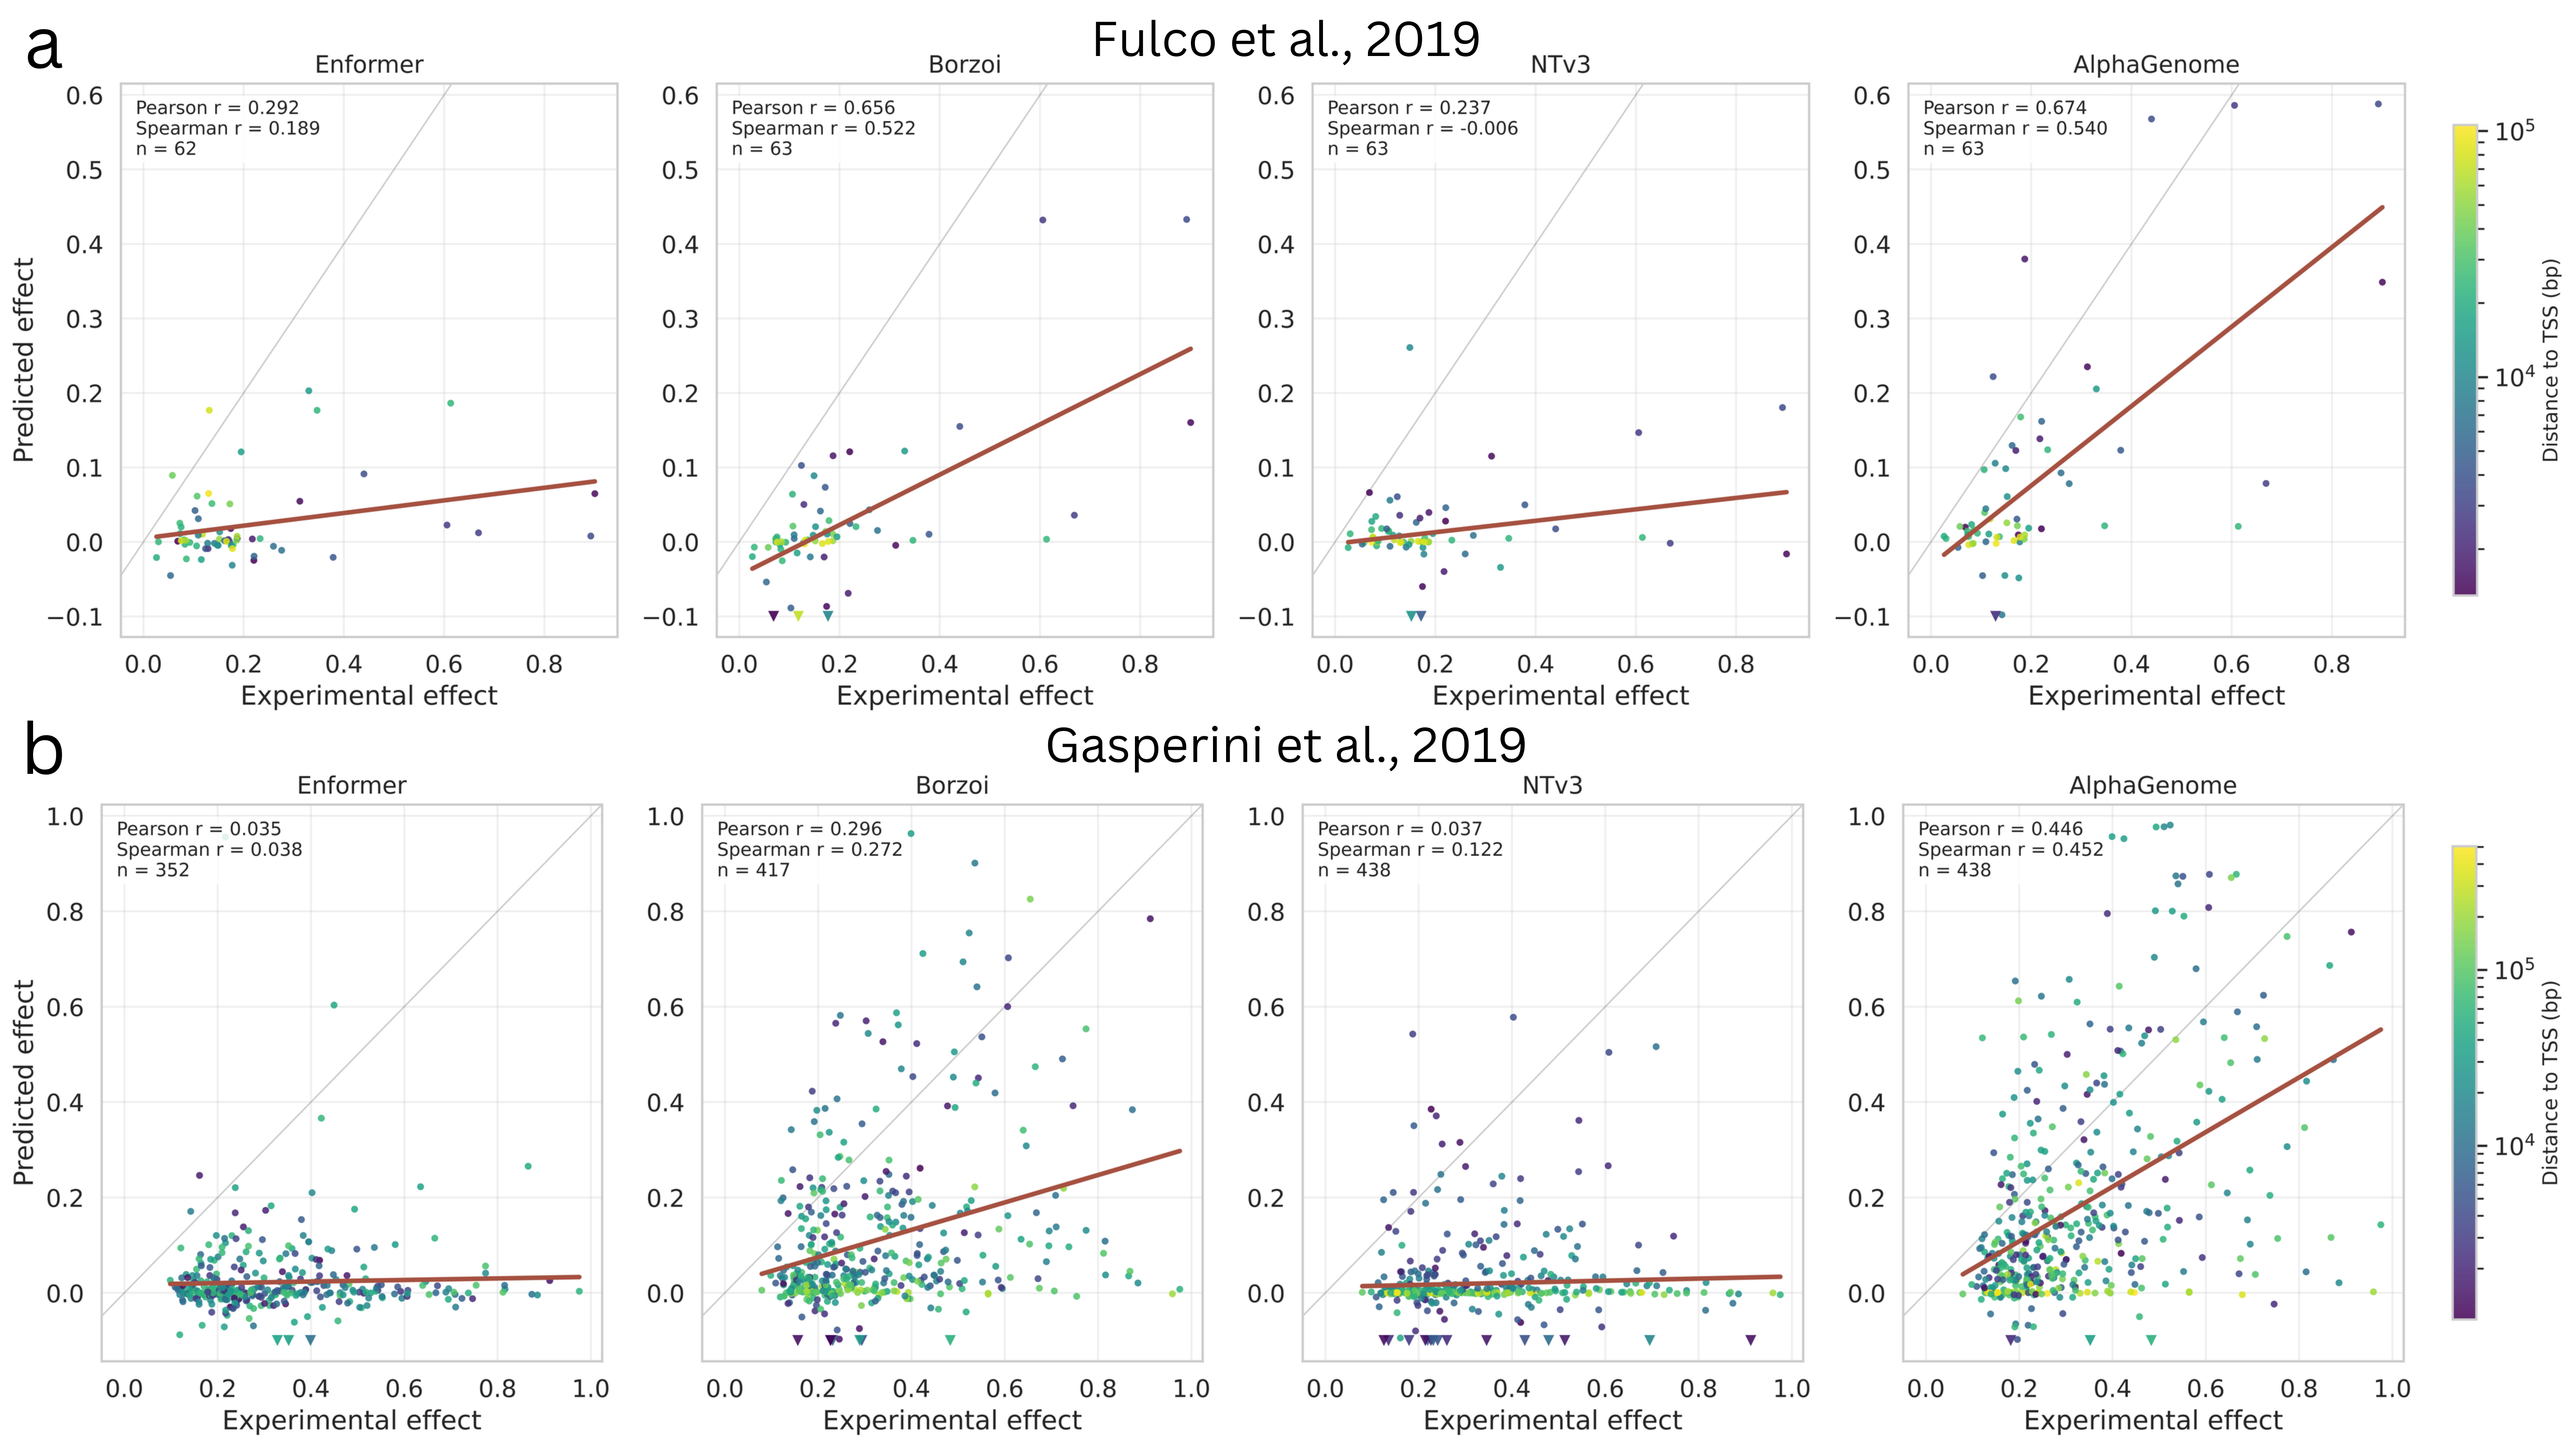
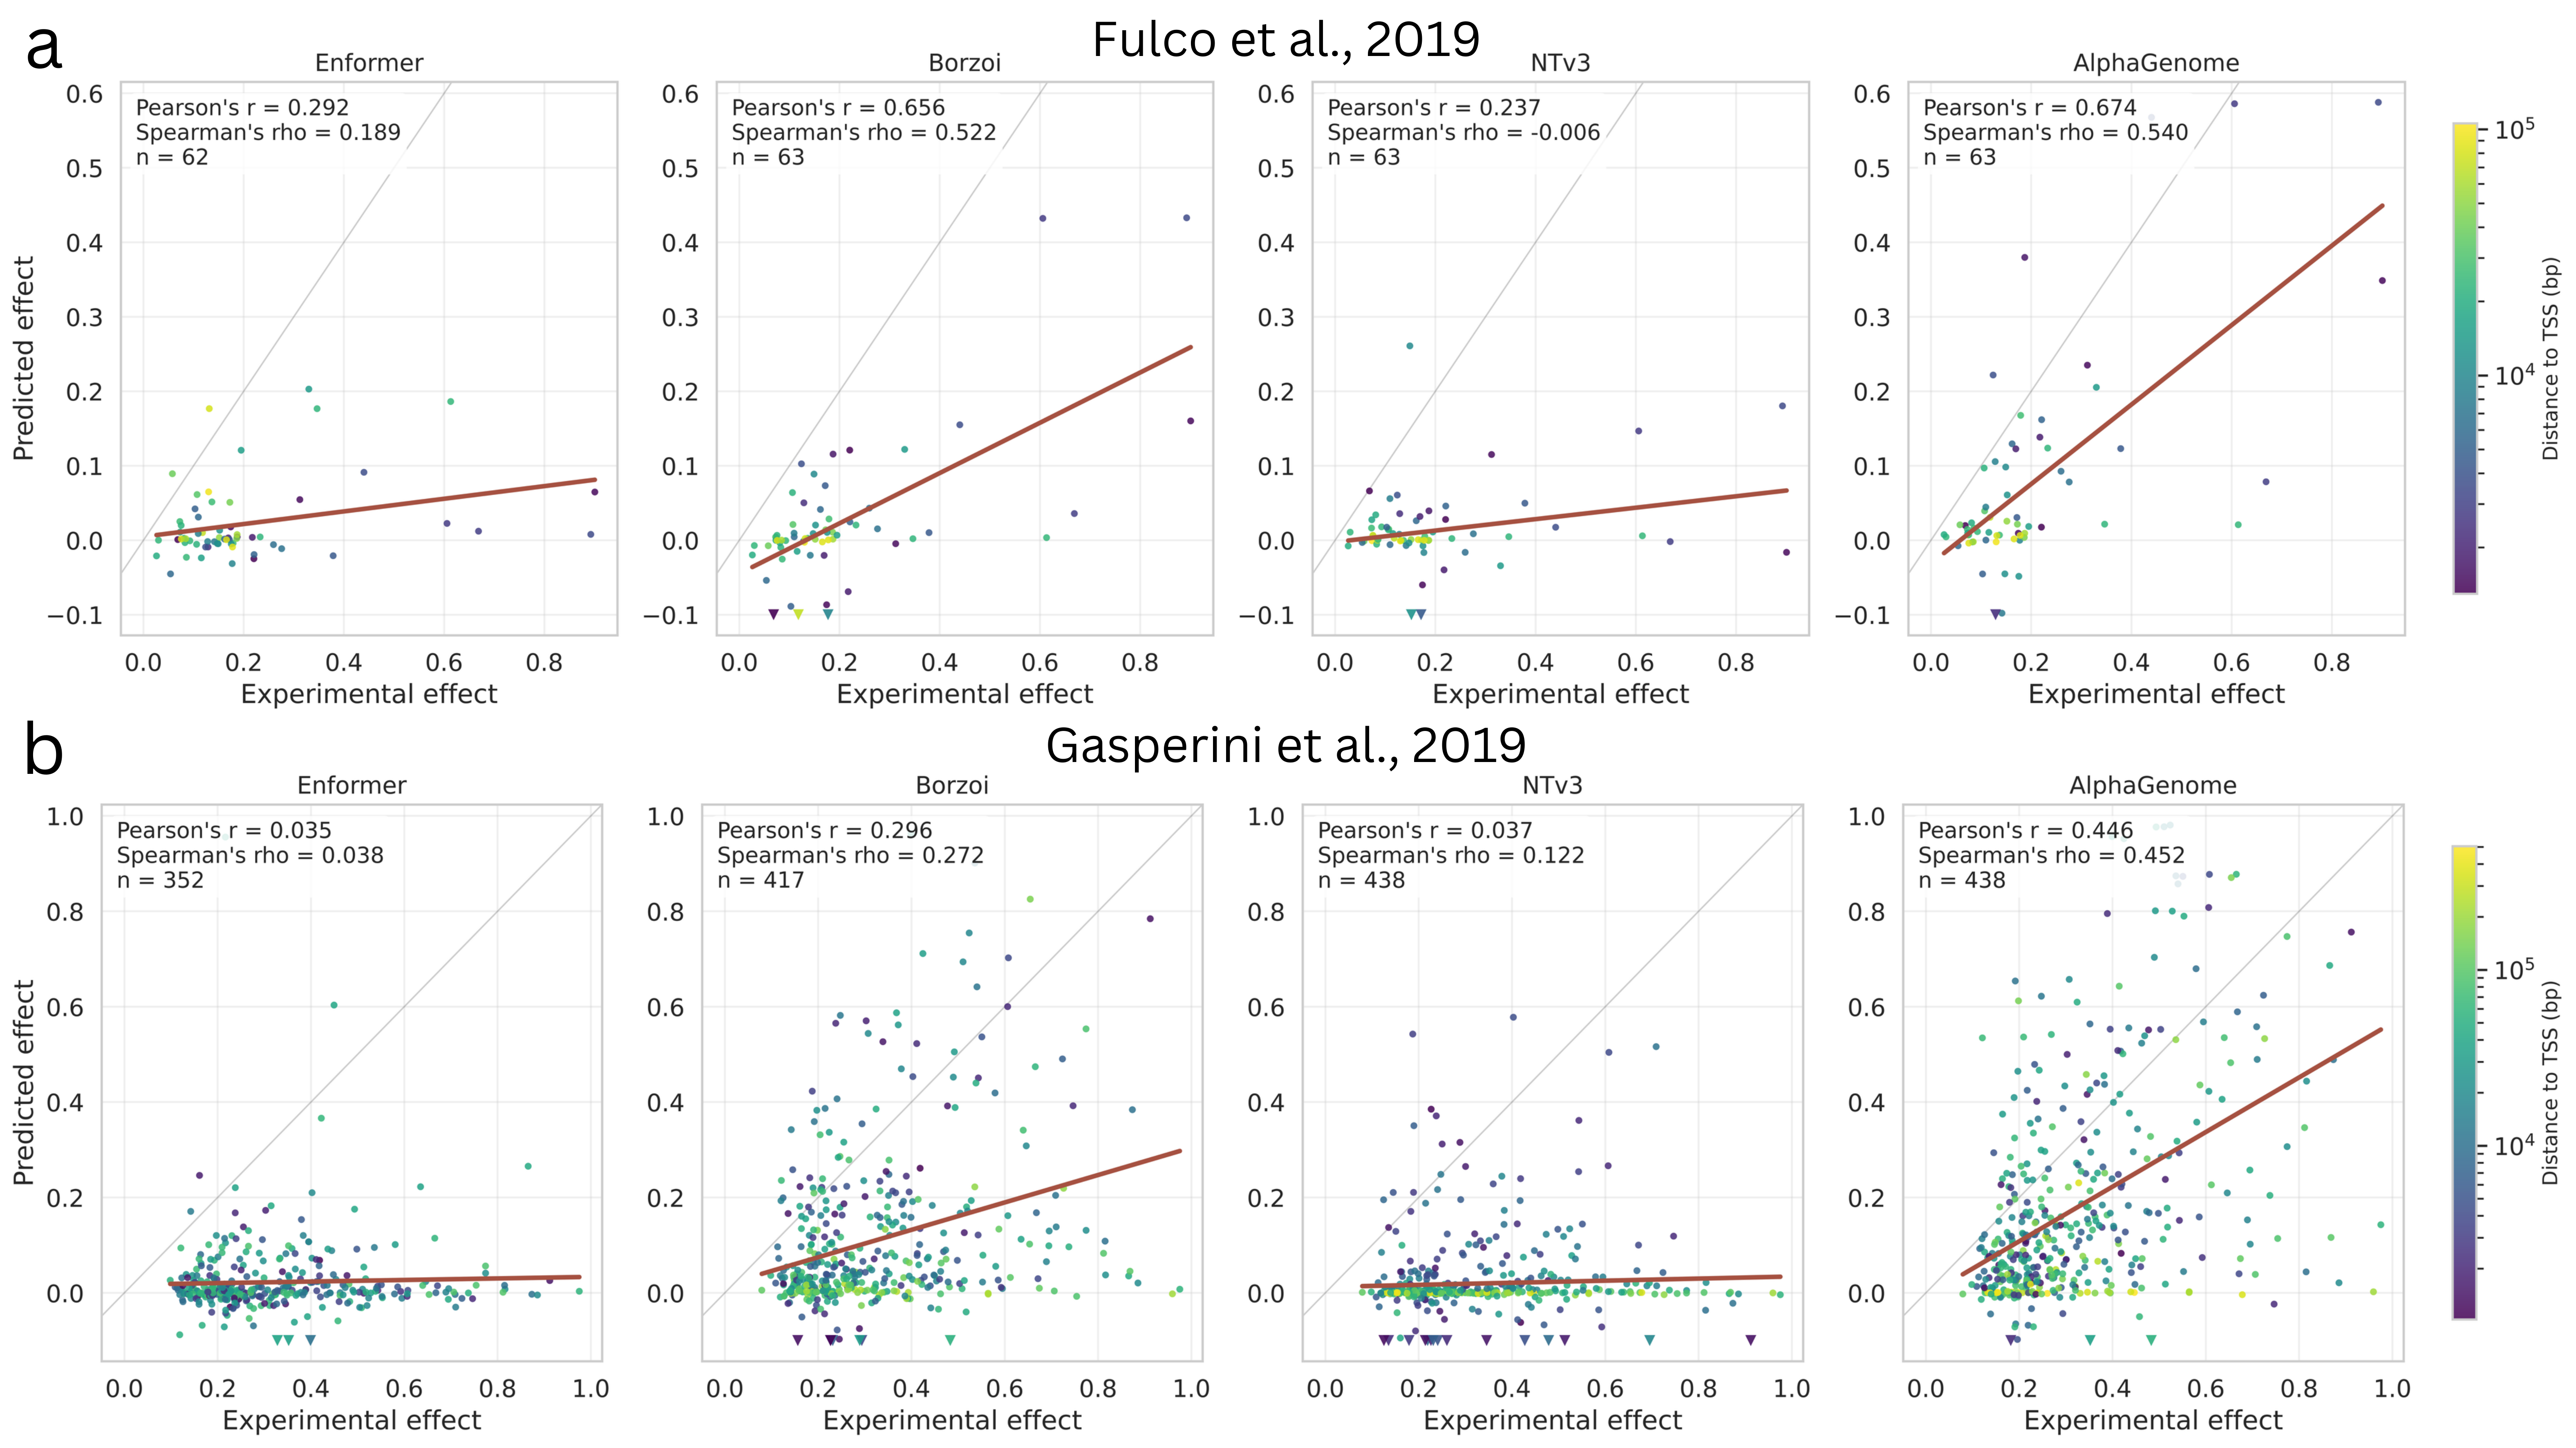
Revise CRISPRi benchmark post: restructure motivation, add TTA section + figure, refine limitations, address reviewer feedback

diff --git a/content/blogs/2026-007/index.md b/content/blogs/2026-007/index.md
@@ -4,13 +4,13 @@ title: "Benchmarking seq2func models on distal enhancer effects with CRISPRi scr
 image: "crispri_fig1.png"
 math: false
 
-authors: ["Alan Murphy","Peter Koo"]
+authors: ["Alan Murphy","Peter K. Koo"]
 
 authors_display:
   - name: "Alan Murphy"
     affiliation: "Cold Spring Harbor Labs (CSHL)"
     orcid: "0000-0002-2487-8753"
-  - name: "Peter Koo"
+  - name: "Peter K. Koo"
     affiliation: "Cold Spring Harbor Labs (CSHL)"
     orcid: "0000-0001-8722-0038"
 
@@ -43,9 +43,9 @@ We benchmark four sequence-to-function genomic deep learning models — [Enforme
 
 Three things stand out:
 
-* **AlphaGenome leads on both screens** (Pearson r = 0.67 on Fulco, 0.45 on Gasperini), with Borzoi a close second on Fulco and a more distant second on Gasperini.
-* **All four models systematically underpredict knockdown magnitude**, and the gap to experimental measurements widens with enhancer-to-TSS distance — distal cis-regulatory element (CRE) effects remain the hardest place to predict.
-* **AlphaGenome's RNA-Seq head (with GENCODE-exon aggregation) beats its CAGE head** on the larger screen — how you read the output matters.
+* **AlphaGenome leads on both screens** (Pearson's r = 0.67 on Fulco et al., 0.45 on Gasperini et al.), with Borzoi a close second on Fulco et al. and a more distant second on Gasperini et al.
+* **All four models systematically underpredict knockdown magnitude**, and the gap to experimental measurements widens with enhancer-to-TSS distance — distal cis-regulatory element (CRE) effects remain difficult to predict.
+* **AlphaGenome's RNA-Seq head (with GENCODE-exon aggregation) beats its CAGE head** on the larger screen — which output track you choose matters.
 
 **Code**: [seq2func_crispri_eval](https://github.com/Al-Murphy/seq2func_crispri_eval)
 {{< /summary >}}
@@ -54,17 +54,20 @@ Three things stand out:
 
 ## Motivation
 
-Sequence-to-function (seq2func) models keep getting bigger, longer-context, and more capable. [AlphaGenome](https://www.nature.com/articles/s41586-025-10014-0) is the current state of the art, succeeding [Enformer](https://www.nature.com/articles/s41592-021-01252-x) (2021) and [Borzoi](https://www.nature.com/articles/s41588-024-02053-6) (2024). DNA language models like [NTv3](https://www.biorxiv.org/content/10.64898/2025.12.22.695963v1) now compete in the same space.
+Sequence-to-function (seq2func) models keep getting bigger, longer-context, and more capable. [AlphaGenome](https://www.nature.com/articles/s41586-025-10014-0) is the current state of the art, succeeding [Enformer](https://www.nature.com/articles/s41592-021-01252-x) (2021) and [Borzoi](https://www.nature.com/articles/s41588-024-02053-6) (2024). DNA language models like [NTv3](https://www.biorxiv.org/content/10.64898/2025.12.22.695963v1) now compete in the same space by post-training on the same functional genomic tracks.
 
-Headline metrics on held-out reference tracks keep going up. But aggregate performance on the reference genome doesn't tell you how the models do under perturbation — predicting expression changes from sequence changes, which is the actual question for variant interpretation, enhancer design, and CRE prioritisation. [Shen, 2025](https://www.biorxiv.org/content/10.1101/2025.08.05.668750v2.full) recently made this point for natural variation: AlphaGenome improves over Enformer on personal gene expression prediction, but still falls well short on predicting how variants between individuals shift expression. The headline there: AlphaGenome moves the needle, but there's still a long way to go on this kind of distributional shift.
+AlphaGenome was launched as a substantial step forward, but its evaluation focused largely on single-nucleotide variant (SNV) effects — not on the known weaknesses for this class of model. Two such problems are especially well-documented, both originally demonstrated on Enformer: predicting expression across **personalised genomes** (e.g. [Sasse et al.](https://www.nature.com/articles/s41588-023-01524-6)), and predicting **distal CRE effects** (how knocking down a far-away enhancer changes its target gene). Both involve sequence perturbations the model wasn't directly trained on, and both are where seq2func models historically struggle. Performance on these tasks is what tells us whether a model's apparent advance translates to the questions biologists actually care about.
 
-We wanted to probe the same kind of distributional shift from a different angle, through a much larger perturbation, disabling a distal enhancer entirely, and asking whether these models pick up on its effect on the target gene. CRISPRi enhancer screens give us an experimental measurement of exactly that.
+The personalised genome question is how well a model predicts gene expression for a specific individual from their own genome. It's hard because the variants that distinguish one individual from the reference are sparse and small in effect, easy to lose against the much stronger reference signal a sequence model is trained to predict. [Shen, 2025](https://www.biorxiv.org/content/10.1101/2025.08.05.668750v2.full) recently revisited it: AlphaGenome improves over Enformer on this task, but still falls well short of useful accuracy. The needle moves, but there's a long way to go.
+
+The distal-CRE question — much bigger perturbations, disabling a whole regulatory element — has received little attention since [Karollus et al., 2023](https://genomebiology.biomedcentral.com/articles/10.1186/s13059-023-02899-9). They defined an _in-silico_ CRISPRi benchmark on [Fulco 2019](https://pubmed.ncbi.nlm.nih.gov/31784727/) and [Gasperini 2019](https://pubmed.ncbi.nlm.nih.gov/30612741/) and ran it on Enformer and Basenji2, finding both substantially undershoot real enhancer effects. Many new seq2func models have been released since, including AlphaGenome, which claimed performance gains from longer input contexts and a broader set of predictive tasks. Yet none have been evaluated on this benchmark.
+
+We aim to address this. We re-run the Karollus benchmark on AlphaGenome, Borzoi, and NTv3 — and on Enformer, to anchor against Karollus's original numbers. The result is a measure of progress on distal-CRE prediction across the last four years of seq2func releases, not just a test of AlphaGenome's generalisation abilities.
 
 > _Side note:_ CRISPRi (CRISPR interference) uses a catalytically dead Cas9 fused to a repressive domain to silence a target locus without cutting DNA. When the target is a distal enhancer, you can read out which genes go down in expression — giving you a measured enhancer → gene effect size.
 
-> _Side note:_ "seq2func" = sequence-to-function. A model that takes raw DNA as input and predicts functional genomic signals (RNA-seq, CAGE, ATAC, ChIP, etc.) as output. Enformer, Borzoi, NTv3, and AlphaGenome are all seq2func models.
+> _Side note:_ "seq2func" = sequence-to-function. A model that takes raw DNA as input and predicts functional genomic signals (RNA-seq, CAGE, ATAC, ChIP, etc.) as output. Enformer, Borzoi, and AlphaGenome were all trained end-to-end as seq2func models. NTv3 is a hybrid: first pretrained as a genomic language model (gLM) via masked language modeling — predicting hidden bases from their surrounding sequence across many species' genomes — then post-trained on functional assays to produce seq2func outputs.
 
-This post extends the in-silico CRISPRi benchmark from [Karollus et al., 2023](https://genomebiology.biomedcentral.com/articles/10.1186/s13059-023-02899-9), originally for Enformer and Basenji2, to AlphaGenome, Borzoi, and NTv3.
 
 ---
 
@@ -79,13 +82,13 @@ For each pair, the procedure is:
 
 1. Build a sequence window of the model's native context (196 kb for Enformer, 524 kb for Borzoi, 1 Mb for NTv3 and AlphaGenome), centred on the gene's TSS.
 2. Score the wild-type window.
-3. Dinucleotide-shuffle a 2 kb slice covering the enhancer. Repeat N = 50 times, average effect.
+3. Dinucleotide-shuffle a 2 kb slice covering the enhancer. Repeat N = 50 times, average the model's prediction.
 4. Aggregate the model output over K562 RNA-Seq tracks in a TSS-centred 640 bp window. For AlphaGenome we additionally use the mean signal across GENCODE exons of the target gene (their paper's preferred RNA-Seq score).
 5. Score `pred_delta = (WT − mean(shuffle)) / WT` per pair and correlate with the measured fractional knockdown.
 
-> _Side note_: Why dinucleotide shuffle and not uniform random bases or N-replacement? N-replacement has not been seen by the model during training, so it could lead to some very strange predictions. Drawing random bases changes the local G+C content, biasing the model on composition rather than motif loss. Even a plain base shuffle — which does preserve G+C — destroys dinucleotide frequencies like CpG counts, themselves a learned regulatory signal. Dinucleotide shuffling (Altschul–Erickson) destroys motif content while keeping both single-base and dinucleotide composition intact. The standard for in-silico CRISPRi.
+> _Side note_: This is a marginalisation procedure — by averaging predictions across many randomised backgrounds in which the enhancer's motif content is destroyed, we isolate the enhancer's contribution from the surrounding sequence context (the same idea underlies Global Importance Analysis (GIA); [Koo et al., 2021](https://pmc.ncbi.nlm.nih.gov/articles/PMC8118286/)). The background choice matters: N-replacement is out-of-distribution for the model and can produce strange predictions; drawing random bases changes local G+C content, biasing on composition rather than motif loss; even a plain base shuffle destroys dinucleotide frequencies like CpG counts, themselves a learned regulatory signal. Dinucleotide shuffling (Altschul–Erickson) destroys motif content while keeping both single-base and dinucleotide composition intact — the standard background for in-silico CRISPRi.
 
-This protocol is a direct extension of [Karollus 2023](https://genomebiology.biomedcentral.com/articles/10.1186/s13059-[phone redacted]) — most of it is bit-for-bit faithful to theirs. We reuse their Fulco evaluation tables (`ziga_additional_columns.tsv` + `enhancer_knockdown_effects.tsv` from their [Zenodo release](https://zenodo.org/records/[phone redacted])) with the same merge keys and validated-pair filtering, their TSS / enhancer / strand conventions, the same Enformer DeepMind checkpoint (loaded via the [PyTorch port](https://github.com/lucidrains/enformer-pytorch) rather than TF Hub — same weights, different wrapper), and their K562 CAGE readout, central-bin aggregation, and Pearson/Spearman correlation framework. For Gasperini we apply the same protocol to the Cell 2019 high-confidence pairs (after hg19 → hg38 liftover). The model-specific adjustments — per-architecture aggregation conventions like 5×128 bp bins for Enformer, 20×32 bp for Borzoi, exon-mean for AlphaGenome RNA-Seq — are architecture-driven; the evaluation harness around them is the Karollus harness. Four deliberate departures from Karollus are flagged in [Limitations](#limitations).
+This protocol is a direct extension of [Karollus 2023](https://genomebiology.biomedcentral.com/articles/10.1186/s13059-[phone redacted]) — most of it is bit-for-bit faithful to theirs. We reuse their Fulco et al. evaluation tables (`ziga_additional_columns.tsv` + `enhancer_knockdown_effects.tsv` from their [Zenodo release](https://zenodo.org/records/[phone redacted])) with the same merge keys and validated-pair filtering, their TSS / enhancer / strand conventions, the same Enformer DeepMind checkpoint (loaded via the [PyTorch port](https://github.com/lucidrains/enformer-pytorch) rather than TF Hub — same weights, different wrapper), and their K562 CAGE readout, central-bin aggregation, and Pearson/Spearman correlation framework. For Gasperini we apply the same protocol to the Cell 2019 high-confidence pairs (after hg19 → hg38 liftover). The model-specific adjustments — per-architecture aggregation conventions like 5×128 bp bins for Enformer, 20×32 bp for Borzoi, exon-mean for AlphaGenome RNA-Seq — are architecture-driven; the evaluation harness around them is the Karollus harness. Four deliberate departures from Karollus are flagged in [Limitations](#limitations).
 
 ---
 
@@ -93,11 +96,11 @@ This protocol is a direct extension of [Karollus 2023](https://genomebiology.bio
 
 **AlphaGenome leads on both screens.** Figure 1 shows predicted vs. measured fractional knockdown for all four models on each screen, with points coloured by enhancer-to-TSS distance.
 
-![Figure 1](crispri_fig1.png "width=900 Figure 1: Predicted vs. measured fractional knockdown for the four models on (a) Fulco 2019 and (b) Gasperini 2019. Points coloured by enhancer-to-TSS distance. AlphaGenome achieves the highest Pearson and Spearman correlations on both screens; Enformer and NTv3 effectively fail on Gasperini. The dashed x = y line marks perfect prediction (predicted = observed); points falling below it indicate the model underestimates the experimental knockdown.")
+![Figure 1](crispri_fig1.png "width=900 Figure 1: Predicted vs. measured fractional knockdown for the four models on (a) Fulco et al., 2019 and (b) Gasperini et al., 2019. Points coloured by enhancer-to-TSS distance. AlphaGenome achieves the highest Pearson and Spearman correlations on both screens; Enformer and NTv3 effectively fail on Gasperini. The dashed x = y line marks perfect prediction (predicted = observed); points falling below it indicate the model underestimates the experimental knockdown.")
 
 The headline numbers:
 
-| Model       | Fulco (Pearson / Spearman) | Gasperini (Pearson / Spearman) |
+| Model       | Fulco et al. (Pearson's r / Spearman's rho) | Gasperini et al. (Pearson's r / Spearman's rho) |
 |-------------|---------------------------:|-------------------------------:|
 | Enformer    | 0.29 / 0.19                | 0.04 / 0.04                    |
 | Borzoi      | 0.66 / 0.52                | 0.30 / 0.27                    |
@@ -106,9 +109,10 @@ The headline numbers:
 
 A few takeaways:
 
-* **AlphaGenome outperforms all other mdoels** on both screens. The margin over Borzoi is small on Fulco but substantial on Gasperini.
-* **Enformer and NTv3 fall apart on Gasperini.** Enformer's shorter 196 kb context excludes ~20% of Gasperini pairs, but even on the closer pairs, it manages near-zero correlation. NTv3 has a 1 Mb context, the same as AlphaGenome, and still performs comparably poorly, so context length isn't the explanation.
-* **The Gasperini ceiling is low across the board.** Even AlphaGenome leaves the majority of variance unexplained. Some of this is biological noise: Gasperini's pooled design puts multiple sgRNAs per cell, so any single enhancer's effect is measured in an already-perturbed cellular context, with trans effects from the other knockdowns adding noise to the readout. Fulco's CRISPRi-FlowFISH targets one enhancer at a time and is the cleaner ground truth — which may explain part of the per-screen performance gap. Either way, the headline framing is that AlphaGenome improves CRISPRi prediction but a large gap remains, especially for distal cis-regulatory elements (CREs).
+* **AlphaGenome outperforms all other models** on both screens. The margin over Borzoi is small, especially on Fulco et al.
+* **Enformer and NTv3 fall apart on Gasperini et al.** Enformer's shorter 196 kb context excludes ~20% of Gasperini et al. pairs, but even on the closer pairs, it manages near-zero correlation. NTv3 has a 1 Mb context, the same as AlphaGenome, and still performs comparably poorly, so context length isn't the explanation.
+* **On the same set of pairs, AlphaGenome still leads.** Of Gasperini et al.'s pairs, 21 fall within AlphaGenome's 1 Mb context but outside Borzoi's 524 kb — so they contribute to AG's correlation but not Borzoi's (Note, all of the tested Fulco et al. pair's are in Borzoi's context). To make the comparison apples-to-apples, we restrict AlphaGenome to only the pairs Borzoi can also score: Pearson's r 0.45 → 0.44, Spearman's ρ 0.45 → 0.45 — giving essentially the same result.
+* **The Gasperini et al. ceiling is low across the board.** Even AlphaGenome leaves substantial variance unexplained. Some of this is biological noise: Gasperini et al.'s pooled design puts multiple sgRNAs per cell, so any single enhancer's effect is measured in an already-perturbed cellular context, with trans effects from the other knockdowns adding noise to the readout. Fulco et al.'s CRISPRi-FlowFISH targets one enhancer at a time and is the cleaner ground truth — which may explain part of the per-screen performance gap. Either way, the headline framing is that AlphaGenome improves CRISPRi prediction but a large gap remains, especially for distal cis-regulatory elements (CREs).
 
 ### Predictions shrink, knockdowns don't
 
@@ -121,17 +125,25 @@ Two patterns hold across all four models:
 * **Predictions are systematically smaller in magnitude than observed knockdowns.** Even where the rank ordering is right (good Spearman), the predicted effect sizes are compressed.
 * **The gap grows with distance.** Models capture some of the distance-decay biology, but the slope is shallower than the data demands — most obviously for Enformer and NTv3, less so for AlphaGenome.
 
-### How you read the output matters
+A short aside: AlphaGenome's RNA-Seq head, aggregated as the mean signal across the target gene's GENCODE exons (their paper's preferred approach), beats AlphaGenome's CAGE head on Gasperini et al. (Pearson's r 0.45 vs. 0.39). On Fulco et al. the difference is small (0.67 vs. 0.66). So if you're benchmarking a new model on these screens, your output-aggregation choice should be considered carefully!
 
-A short aside: AlphaGenome's RNA-Seq head, aggregated as the mean signal across the target gene's GENCODE exons (their paper's preferred approach), beats AlphaGenome's CAGE head on Gasperini (Pearson 0.45 vs. 0.39). On Fulco the difference is small (0.67 vs. 0.66). So if you're benchmarking a new model on these screens, your output-aggregation choice should be considered carefully!
-
-![Figure 3](crispri_suppfig2.png "width=900 Figure 3: Predicted vs. measured fractional knockdown for Enformer and AlphaGenome CAGE track and RNA-Seq track on (a) Fulco 2019 and (b) Gasperini 2019. Points coloured by enhancer-to-TSS distance. AlphaGenome's RNA-Seq head with GENCODE-exon aggregation beats its CAGE head on Gasperini and is comparable on Fulco. The dashed x = y line marks perfect prediction (predicted = observed); points falling below it indicate the model underestimates the experimental knockdown.")
+![Figure 3](crispri_suppfig2.png "width=900 Figure 3: Predicted vs. measured fractional knockdown for Enformer and AlphaGenome CAGE track and RNA-Seq track on (a) Fulco et al., 2019 and (b) Gasperini et al., 2019. Points coloured by enhancer-to-TSS distance. AlphaGenome's RNA-Seq head with GENCODE-exon aggregation beats its CAGE head on Gasperini et al. and is comparable on Fulco et al. The dashed x = y line marks perfect prediction (predicted = observed); points falling below it indicate the model underestimates the experimental knockdown.")
 
 ### Scoring it two ways
 
-A second aside: we computed the predicted effect two ways. Figure 1 used the linear `pred_delta = (WT − mean(shuffle)) / WT`. We also computed log<sub>2</sub>(WT / mean(shuffle)) against −log<sub>2</sub>(1 − y_delta) — a log fold-change scaling that de-emphasises a few high-end outliers. Figure 4 shows the log<sub>2</sub> version. Spearman is identical between the two scorings (rank-invariant); Pearson shifts a few hundredths but the model ranking is the same.
+A second aside: we computed the predicted effect two ways. Figure 1 used the linear `pred_delta = (WT − mean(shuffle)) / WT`. We also computed log<sub>2</sub>(WT / mean(shuffle)) against −log<sub>2</sub>(1 − y_delta) — a log fold-change scaling that de-emphasises a few high-end outliers. Figure 4 shows the log<sub>2</sub> version.  Spearman is identical between the two scorings (rank-invariant); Pearson can shift noticeably, especially on Gasperini, and AlphaGenome and Borzoi narrowly swap order on Fulco — though the broad picture (AlphaGenome and Borzoi well above NTv3) is robust.
 
-![Figure 4](crispri_suppfig1.png "width=900 Figure 4: Predicted vs. measured knockdown on the log2 alignment scale (log2(WT / mean(shuffle)) vs. −log2(1 − y_delta)) for Borzoi, NTv3, and AlphaGenome on (a) Fulco 2019 and (b) Gasperini 2019. Enformer omitted. Points coloured by enhancer-to-TSS distance. Model ranking matches Figure 1; Pearson shifts a few hundredths, Spearman is identical. The dashed x = y line marks perfect prediction (predicted = observed); points falling below it indicate the model underestimates the experimental knockdown.")
+![Figure 4](crispri_suppfig1.png "width=900 Figure 4: Predicted vs. measured knockdown on the log2 alignment scale (log2(WT / mean(shuffle)) vs. −log2(1 − y_delta)) for Borzoi, NTv3, and AlphaGenome on (a) Fulco et al., 2019 and (b) Gasperini et al., 2019. Enformer omitted. Points coloured by enhancer-to-TSS distance. Model ranking matches Figure 1; Pearson can shift on Gasperini, and AlphaGenome and Borzoi swap order on Fulco. Spearman's ρ is identical between the two scorings. The dashed x = y line marks perfect prediction (predicted = observed); points falling below it indicate the model underestimates the experimental knockdown.")
+
+### Test-time augmentation: stabilising AlphaGenome
+
+Karollus et al.'s original benchmark applies **test-time augmentations (TTA)** — for each sequence, run the model on 3 small offsets (−43, 0, +43 bp) crossed with both orientations (forward + reverse-complement), then average the 6 predictions. The 43 bp shift isn't arbitrary: Enformer's output is binned at 128 bp, and 128 / 3 ≈ 43, so the three offsets sample the TSS at roughly even thirds within its bin, averaging out where exactly the landmark falls. Genomic seq2func models have small but real positional sensitivity — predictions wobble across shifts — and TTA reliably damps this. Past work has shown the same effect in adjacent settings ([Toneyan et al., 2022](https://www.nature.com/articles/s42256-022-00570-9)).
+
+> _Side note:_ Test-time augmentation (TTA) means running the model on slightly perturbed versions of the same input and averaging the outputs, so the final prediction is less dependent on incidental properties like exact bin alignment or input orientation.
+
+The headline benchmark (Figures 1–4) doesn't use TTA, so all four models are compared on equal footing. To see what stabilising AlphaGenome's predictions buys on this task, we ran a separate analysis applying the Karollus et al.'s 6-pass recipe to AlphaGenome alone. Figure 5 shows the result: TTA improves AlphaGenome's headline correlations on both screens, lifting Pearson's r on Fulco from 0.67 to 0.69 and Spearman on Gasperini from 0.45 to 0.47.
+
+![Figure 5](crispri_suppfig3.png "width=900 Figure 5: AlphaGenome predicted vs. measured fractional knockdown on (a) Fulco et al., 2019 and (b) Gasperini et al., 2019, without test time augmentations (TTA) (middle) versus with 6-pass TTA (3 shifts × 2 orientations, averaged; right). Points coloured by enhancer-to-TSS distance. TTA modestly improves AlphaGenome's correlations on both screens — most visibly Fulco Pearson (0.67 → 0.69) and Gasperini Spearman (0.45 → 0.47); the other metrics are essentially unchanged. Enformer without TTA included for context. The dashed x = y line marks perfect prediction (predicted = observed); points falling below it indicate the model underestimates the experimental knockdown.")
 
 ---
 
@@ -139,14 +151,14 @@ A second aside: we computed the predicted effect two ways. Figure 1 used the lin
 
 A few things to flag about our analysis.
 
-**Differences from Karollus 2023.** We cross-checked our Enformer reimplementation against Karollus's original code line-by-line with an LLM ([Claude Opus 4.7](https://www.anthropic.com/)). Our Enformer numbers don't exactly match their published ones despite following the same trends. Four deliberate departures from their approach may explain some of this gap:
+**Differences from Karollus 2023.** We cross-checked our Enformer reimplementation against Karollus's original code line-by-line with an LLM ([Claude Opus 4.7](https://www.anthropic.com/)). Our Enformer numbers don't exactly match their published ones but the qualitative pattern is the same — Enformer underpredicts distal enhancer effects. Four deliberate departures from their approach may explain some of this gap:
 
 * **Window construction.** Karollus reads precomputed `sequence_start`/`sequence_end` from a fixed table, designed so both TSS and enhancer sit inside Enformer's central crop. We build the window on-the-fly as strict TSS-centred so that all models were compared equally.
-* **No test time augmentations - orientation/offset averaging.** Karollus uses test time augmentations by averages 2 orientations × 3 offsets per sequence (612 forward passes per pair). We run 1 × 1 (51 forward passes with the orientation mnatching the gene of interest). We know shifting and reverse complementing will likely marginally improve performance but for benchmarking, we wanted to test every model on a single pass on the correct orientation of the gene of interest.
-* **No N-replacement control.** Karollus also runs an all-N enhancer replacement (replacing every base with the "N" wildcard) as a stronger knockout than shuffling. We deliberately don't: a 2 kb stretch of pure N is out-of-distribution for these models, they may see scattered Ns in gap-adjacent or repeat-masked positions during training, but never contiguous blocks of this size. Predictions there reflect how the model handles unfamiliar input, not how it responds to motif loss, which is the actual question. The dinucleotide shuffle keeps the model in-distribution and isolates the motif-loss signal cleanly.
-* **Linear vs. log<sub>2</sub> observed effect.** Karollus uses log<sub>2</sub>(1 + fraction_change); we report the linear fractional change and the log<sub>2</sub> observed effect. Spearman is identical; Pearson differs by a small log-vs-linear distortion.
+* **TTA only for AlphaGenome.** Karollus et al. applies TTA (6 forward passes per sequence) uniformly across all evaluated models. Our headline four-model comparison (Figures 1–4) runs each model once per sequence (51 forward passes per pair, counting the 50 shuffles), keeping all models on equal footing. We separately apply Karollus et al.'s TTA recipe to AlphaGenome (Figure 5) to characterise the stability gain, but we don't apply it to Enformer, Borzoi, or NTv3.
+* **No N-replacement control.** Karollus also runs an all-N enhancer replacement (replacing every base with the "N" wildcard) as a stronger knockout than shuffling. We deliberately don't: while reference genomes do contain N regions (gaps, centromeres, hard-masked repeats), these are typically excluded or under-weighted in training pipelines for these models, so a 2 kb block of N embedded in an otherwise-normal genic context is anomalous input. Predictions there reflect how the model handles unfamiliar input, not how it responds to motif loss, which is the actual question. The dinucleotide shuffle keeps the model in-distribution and isolates the motif-loss signal cleanly.
+* **Linear vs. log<sub>2</sub> observed effect.** Karollus uses log<sub>2</sub>(1 + fraction_change); we report the linear fractional change and the log<sub>2</sub> observed effect. Spearman is identical; Pearson's r differs by a small log-vs-linear distortion.
 
-These won't change model ordering, but absolute Pearson values will move a few hundredths.
+These methodological differences may shift absolute Pearson values, though broad model rankings should be unaffected.
 
 **K562 only.** Both screens are in K562, and K562 is heavily represented in every model's training data. None of these numbers say anything about how the models would do on cell types under-represented in training. We'd expect the gap between models, and between predictions and truth, to widen there.
 
@@ -158,9 +170,9 @@ These won't change model ordering, but absolute Pearson values will move a few h
 
 ## Implications
 
-The benchmark gives a clean, model-agnostic test for any new seq2func model on a biologically meaningful task. AlphaGenome's gains over Enformer and Borzoi are real, and most pronounced on the larger, harder Gasperini screen. But even the best model still leaves the majority of variance unexplained and underestimates the magnitude of distal-enhancer effects — which matters for downstream applications like CRE prioritisation and enhancer design.
+The benchmark tests seq2func models on experimentally validated distal enhancer-promoter interactions. AlphaGenome's gains over Enformer are substantial, and most pronounced on the larger Gasperini et al. screen. That's real progress. But fully benchmarking seq2func models on distal CREs will require follow-up CRISPRi screens in cell lines beyond K562 — without them, we can't tell which gains generalise.
 
-Echoing [Shen 2025](https://www.biorxiv.org/content/10.1101/2025.08.05.668750v2.full) from a different angle: AlphaGenome moves the needle, but there's still a long way to go.
+Echoing [Shen 2025](https://www.biorxiv.org/content/10.1101/2025.08.05.668750v2.full) from a different angle: AlphaGenome improves CRISPRi effect prediction, but the remaining gap — especially for distal CREs — is still an open problem for the field.
 
 The repo is set up so adding a fifth model is one new `scripts/test_<dataset>_<newmodel>.py` writing a CSV with `y_delta` and `pred_delta` columns. If you've got a model you want to test, we'd love to see it!
 
@@ -170,20 +182,8 @@ The repo is set up so adding a fifth model is one new `scripts/test_<dataset>_<n
 
 * [Source code & evaluation scripts](https://github.com/Al-Murphy/seq2func_crispri_eval)
 * [Karollus et al., 2023 — the benchmark this extends](https://genomebiology.biomedcentral.com/articles/10.1186/s13059-023-02899-9)
-* [SequenceModelBenchmark Zenodo (Karollus tables)](https://zenodo.org/records/8275436)
+* [SequenceModelBenchmark Zenodo (Karollus tables)](https://zenodo.org/records/7613255)
 * Models: [Enformer (PyTorch)](https://github.com/lucidrains/enformer-pytorch) · [Borzoi](https://github.com/calico/borzoi) · [Flashzoi](https://huggingface.co/johahi) · [NTv3](https://huggingface.co/InstaDeepAI/NTv3_650M_post) · [AlphaGenome PyTorch port](https://github.com/genomicsxai/alphagenome-pytorch)
-
----
-
-## TL;DR
-
-* We benchmark **Enformer, Borzoi, NTv3, and AlphaGenome** zero-shot on two K562 CRISPRi enhancer screens (Fulco 2019, Gasperini 2019), extending [Karollus et al., 2023](https://genomebiology.biomedcentral.com/articles/10.1186/s13059-023-02899-9).
-* **AlphaGenome leads** — Pearson 0.67 on Fulco, 0.45 on Gasperini. Borzoi is a close second on Fulco, a distant second on Gasperini. Enformer and NTv3 fail on Gasperini.
-* **All four models systematically underpredict knockdown magnitude**, and the gap widens with enhancer–TSS distance.
-* **AlphaGenome's RNA-Seq exon-aggregation head outperforms its CAGE head** on Gasperini — output aggregation matters.
-* **Limitations**: K562 only, in-silico shuffle as a motif-loss proxy, indirect trans effects in real CRISPRi that no sequence-only model can capture, small differences from Karollus's original implementation.
-
-AlphaGenome improves CRISPRi effect prediction. The remaining gap, especially for distal CREs, is still an open problem for the field.
 
 ---
 
@@ -197,3 +197,6 @@ AlphaGenome improves CRISPRi effect prediction. The remaining gap, especially fo
 6. Fulco, C. P. et al. Activity-by-contact model of enhancer–promoter regulation from thousands of CRISPR perturbations. _Nature Genetics_, 51, 1664–1669 (2019).
 7. Gasperini, M. et al. A genome-wide framework for mapping gene regulation via cellular genetic screens. _Cell_, 176, 377–390.e19 (2019).
 8. Shen, L. AlphaGenome enhances personal gene expression prediction but retains key limitations. _bioRxiv_ (2025). https://doi.org/10.1101/2025.08.05.668750
+9. Sasse, A., Ng, B., Spiro, A.E. et al. Benchmarking of deep neural networks for predicting personal gene expression from DNA sequence highlights shortcomings. Nat Genet 55, 2060–2064 (2023). https://doi.org/10.1038/s41588-023-01524-6
+10. Koo P.K., Majdandzic A., Ploenzke M., Anand P., Paul S.B. Global importance analysis: An interpretability method to quantify importance of genomic features in deep neural networks. _PLoS Comput Biology_, 17(5), e1008925 (2021). https://doi.org/10.1371/journal.pcbi.1008925
+11. Toneyan, S., Tang, Z. & Koo, P.K. Evaluating deep learning for predicting epigenomic profiles. _Nature Machine Intelligence_, 4, 1088–1100 (2022). https://doi.org/10.1038/s42256-022-00570-9